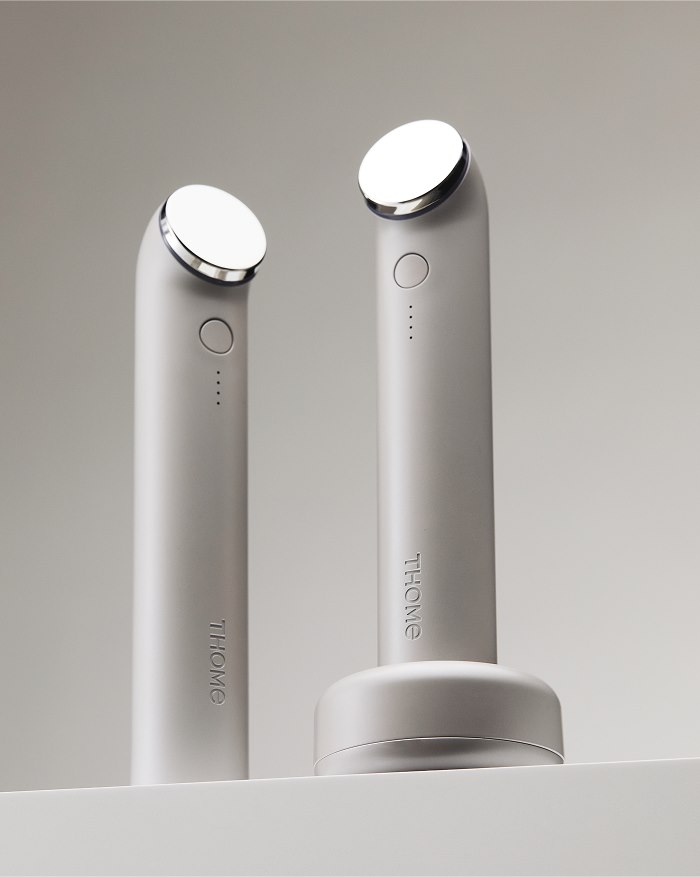
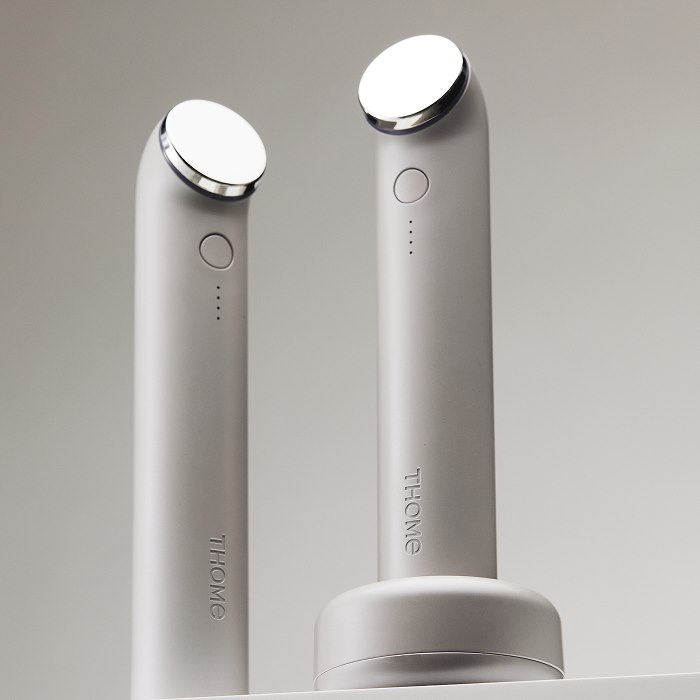
style: THOME 큐레이션 이미지를 정사각형(700x700)으로 잘라 카드를 꽉 채움

diff --git a/lib/mock.ts b/lib/mock.ts
@@ -16,7 +16,8 @@ export const PRODUCTS: Product[] = [
     mall: "THOME 공식몰",
     url: "https://thome.kr/product/%ED%86%B0-%EB%8D%94-%EA%B8%80%EB%A1%9C%EC%9A%B0-%EB%B2%A0%EC%9D%B4%EC%A7%81/137/category/94/display/1/",
     // 단품 (카페24 has_option = 'F', 옵션 선택 상자 없음)이라 options 없음
-    // 카페24 이미지 CDN(cafe24img.poxo.com)은 핫링크 정책이 바뀔 수 있어 공식 대표 이미지(700x877 PNG)를 JPEG로 저장해 사용
+    // 카페24 이미지 CDN(cafe24img.poxo.com)은 핫링크 정책이 바뀔 수 있어 공식 대표 이미지(700x877 PNG)를
+    // 카드(정사각형)를 꽉 채우도록 위 85px부터 700x700으로 잘라 JPEG로 저장해 사용
     imageUrl: "/images/thome-the-glow-basic.jpg",
   },
   {
